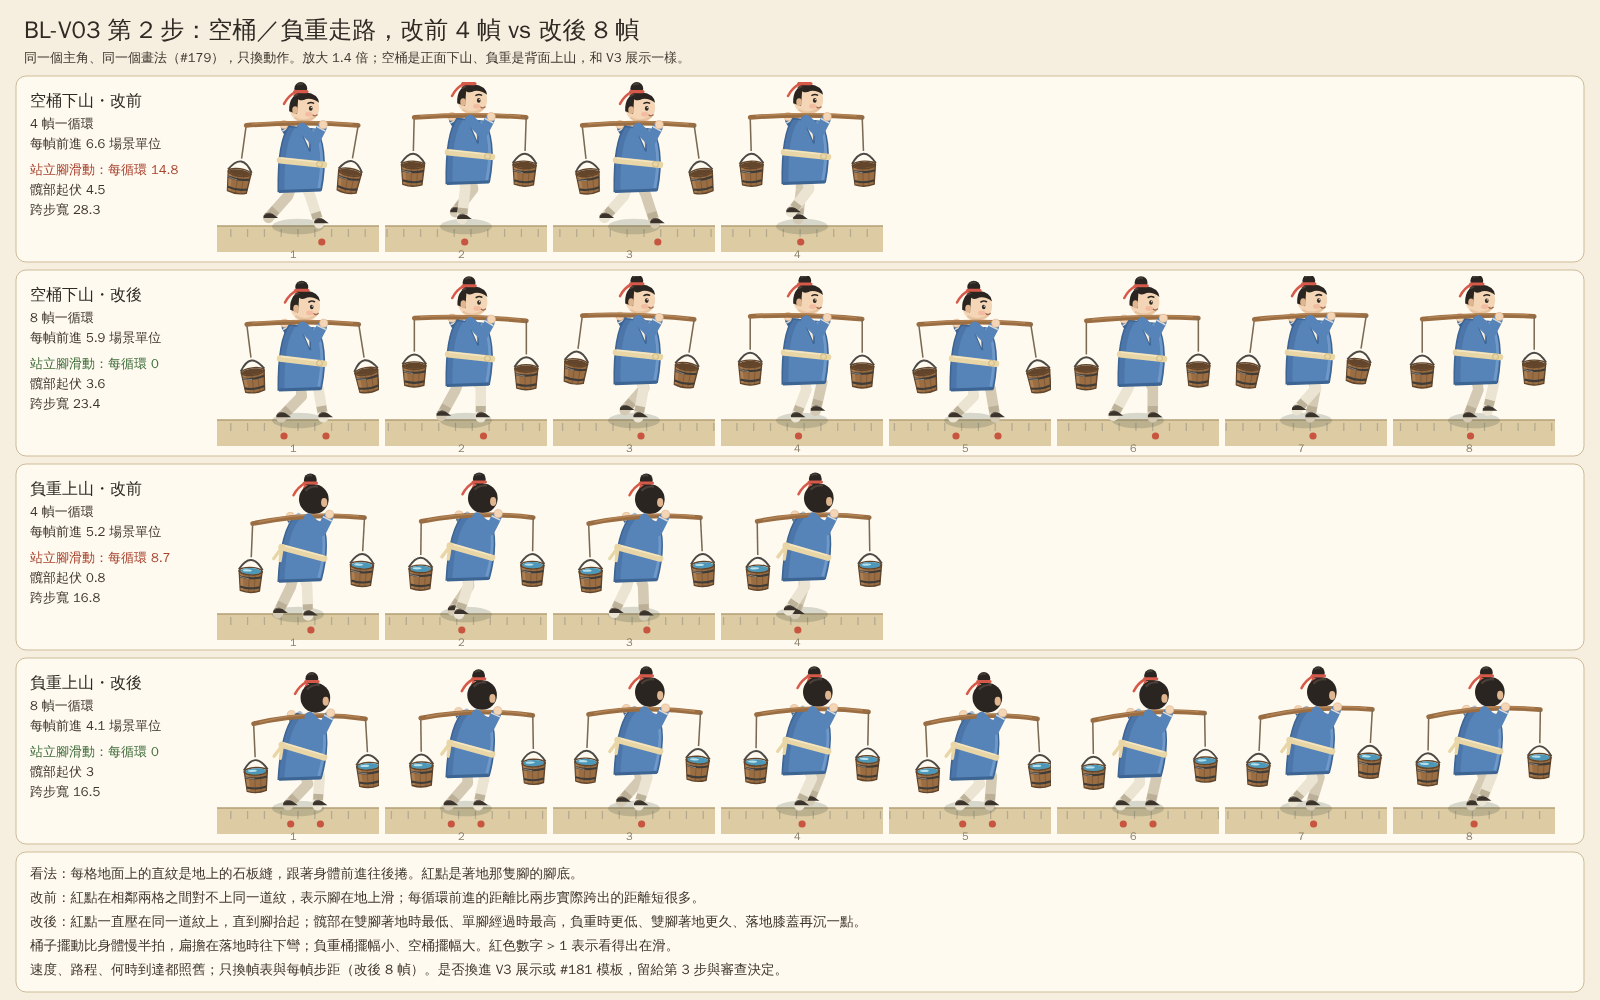
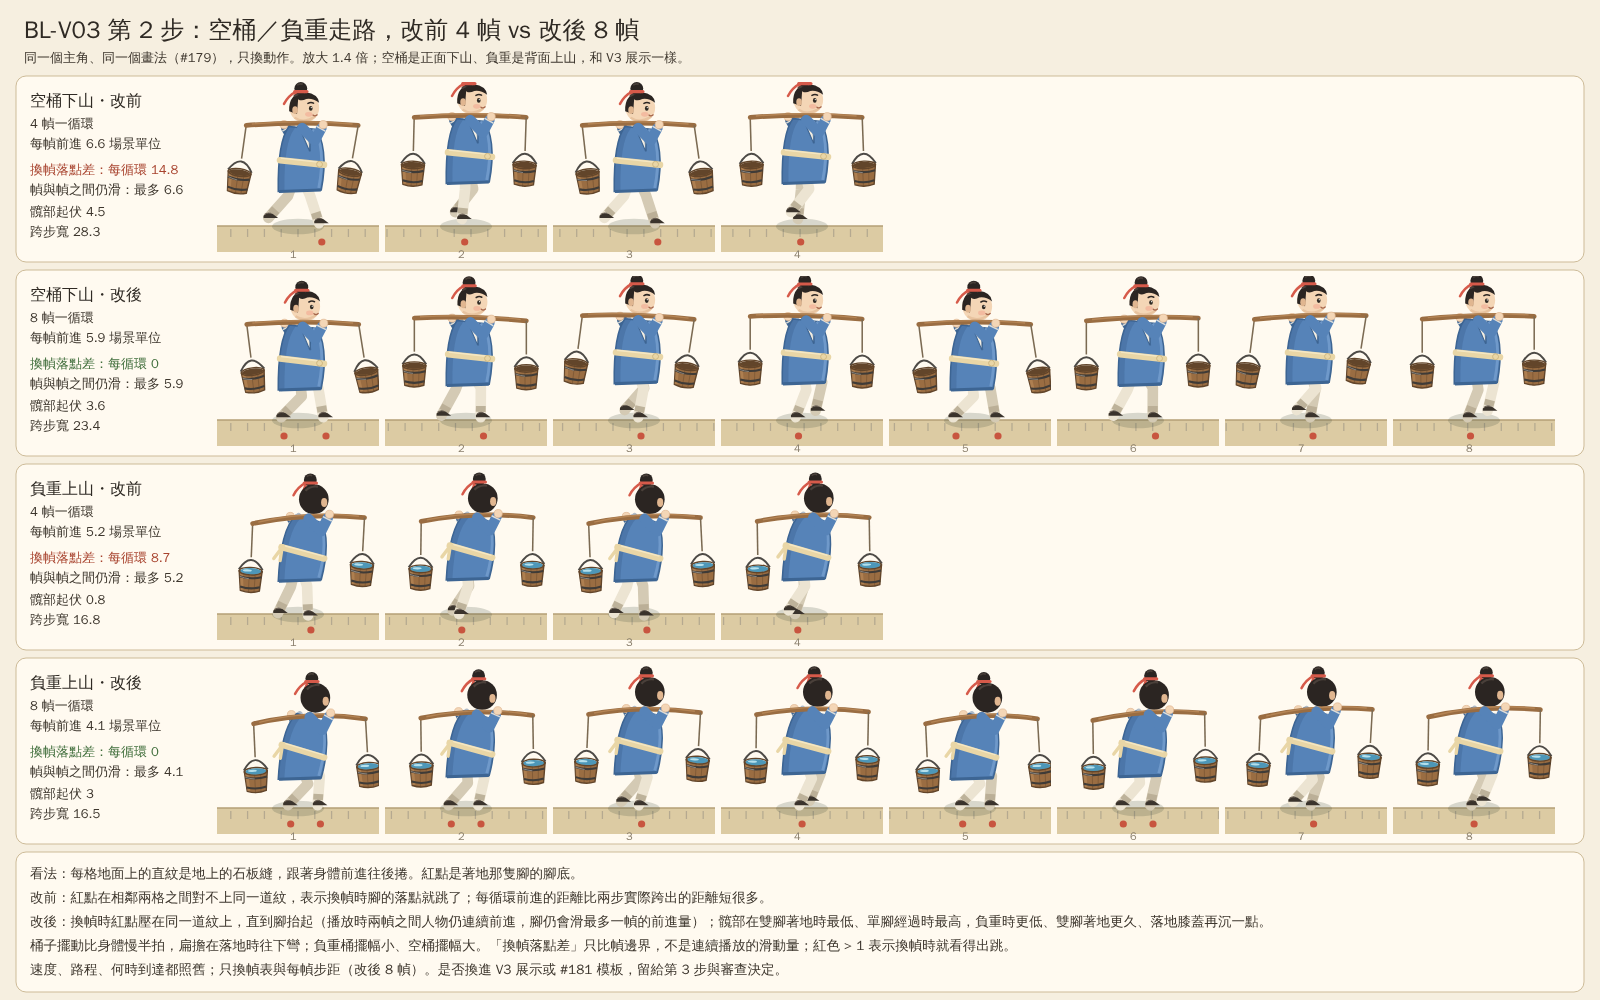
Walk comparison: say the metric is frame-boundary foot offset (Refs #177)
Review: the zero-slip number only compares foot positions at frame
changes; between frames the figure keeps moving while the legs hold,
so the foot still slides by up to one frame's travel. Rename the
metric everywhere, show the in-between slide per variant, and state
that no continuous foot lock is done.

Claude-Session: https://claude.ai/code/session_012LmwTNb7S2YSXiJSVRNLd3

diff --git a/sect-chronicle/experiments/water-carry/design/source/walk-preview.html b/sect-chronicle/experiments/water-carry/design/source/walk-preview.html
@@ -49,7 +49,7 @@
 <body>
 <main>
   <h1>挑水走路：改前 4 幀 vs 改後 8 幀</h1>
-  <p>同一個主角、同一個畫法，兩人以同樣速度走同一段路，只差腳怎麼動。看地上的石縫：改後站著的那隻腳會一直踩在同一處，改前的腳會在地上滑。</p>
+  <p>同一個主角、同一個畫法，兩人以同樣速度走同一段路，只差腳怎麼動。看地上的石縫：改後每次換幀時，站著的那隻腳會回到同一處；改前換幀時腳的落點就跳開。注意兩版在兩幀之間人物都連續前進、腿不動，所以腳仍會滑最多一幀的前進量；這裡沒有做連續鎖腳。</p>
   <div class="bar">
     <span class="lab">播放速度</span>
     <span class="seg" id="speed"><button data-v="0.25">0.25×</button><button data-v="0.5" aria-pressed="true">0.5×</button><button data-v="1">1×</button></span>
@@ -57,7 +57,7 @@
   </div>
   <section id="big"></section>
   <h2 style="font-size:16px;margin:4px 0 0">實際遊玩大小</h2>
-  <p>人物照 V3 的場景比例（0.78）、不放大。這個大小下改後的差別主要是上下起伏和桶子擺動，腳滑在改前也比較不明顯。</p>
+  <p>人物照 V3 的場景比例（0.78）、不放大。這個大小下改後的差別主要是上下起伏和桶子擺動，換幀時的落點跳動在改前也比較不明顯。</p>
   <section class="real" id="real"></section>
 </main>
 <script>
@@ -77,7 +77,7 @@ function laneSvg(v, zoomed) {
 }
 function metric(v) {
   const s = v.metrics.slipPerCycle * SCENE;
-  return `站立腳滑動 <span class="${s > 1 ? 'bad' : 'good'}">${s.toFixed(1)}</span>／循環・髖部起伏 ${(v.metrics.hipRange * SCENE).toFixed(1)}・${v.frames.length} 幀・每秒換 ${v.metrics.framesPerSec.toFixed(1)} 幀`;
+  return `換幀落點差 <span class="${s > 1 ? 'bad' : 'good'}">${s.toFixed(1)}</span>／循環・幀內仍滑最多 ${v.stride.toFixed(1)}・髖部起伏 ${(v.metrics.hipRange * SCENE).toFixed(1)}・${v.frames.length} 幀・每秒換 ${v.metrics.framesPerSec.toFixed(1)} 幀`;
 }
 function build() {
   for (const [host, zoomed] of [[document.getElementById('big'), true], [document.getElementById('real'), false]]) {

diff --git a/sect-chronicle/experiments/water-carry/design/walk/preview.html b/sect-chronicle/experiments/water-carry/design/walk/preview.html
@@ -49,7 +49,7 @@
 <body>
 <main>
   <h1>挑水走路：改前 4 幀 vs 改後 8 幀</h1>
-  <p>同一個主角、同一個畫法，兩人以同樣速度走同一段路，只差腳怎麼動。看地上的石縫：改後站著的那隻腳會一直踩在同一處，改前的腳會在地上滑。</p>
+  <p>同一個主角、同一個畫法，兩人以同樣速度走同一段路，只差腳怎麼動。看地上的石縫：改後每次換幀時，站著的那隻腳會回到同一處；改前換幀時腳的落點就跳開。注意兩版在兩幀之間人物都連續前進、腿不動，所以腳仍會滑最多一幀的前進量；這裡沒有做連續鎖腳。</p>
   <div class="bar">
     <span class="lab">播放速度</span>
     <span class="seg" id="speed"><button data-v="0.25">0.25×</button><button data-v="0.5" aria-pressed="true">0.5×</button><button data-v="1">1×</button></span>
@@ -57,7 +57,7 @@
   </div>
   <section id="big"></section>
   <h2 style="font-size:16px;margin:4px 0 0">實際遊玩大小</h2>
-  <p>人物照 V3 的場景比例（0.78）、不放大。這個大小下改後的差別主要是上下起伏和桶子擺動，腳滑在改前也比較不明顯。</p>
+  <p>人物照 V3 的場景比例（0.78）、不放大。這個大小下改後的差別主要是上下起伏和桶子擺動，換幀時的落點跳動在改前也比較不明顯。</p>
   <section class="real" id="real"></section>
 </main>
 <script>
@@ -77,7 +77,7 @@ function laneSvg(v, zoomed) {
 }
 function metric(v) {
   const s = v.metrics.slipPerCycle * SCENE;
-  return `站立腳滑動 <span class="${s > 1 ? 'bad' : 'good'}">${s.toFixed(1)}</span>／循環・髖部起伏 ${(v.metrics.hipRange * SCENE).toFixed(1)}・${v.frames.length} 幀・每秒換 ${v.metrics.framesPerSec.toFixed(1)} 幀`;
+  return `換幀落點差 <span class="${s > 1 ? 'bad' : 'good'}">${s.toFixed(1)}</span>／循環・幀內仍滑最多 ${v.stride.toFixed(1)}・髖部起伏 ${(v.metrics.hipRange * SCENE).toFixed(1)}・${v.frames.length} 幀・每秒換 ${v.metrics.framesPerSec.toFixed(1)} 幀`;
 }
 function build() {
   for (const [host, zoomed] of [[document.getElementById('big'), true], [document.getElementById('real'), false]]) {

diff --git a/sect-chronicle/experiments/water-carry/design/render-walk.js b/sect-chronicle/experiments/water-carry/design/render-walk.js
@@ -51,7 +51,7 @@ const GIF_FPS = 15, GIF_SECONDS = 4, GIF_SPEED = 0.5;
   const data = await page.evaluate(() => window.WALK.export());
   for (const [id, v] of Object.entries(data)) {
     const m = v.metrics;
-    console.log(`${id}: ${v.frames.length} 幀, 每幀 ${m.cycle / v.frames.length} 場景單位, 滑動/循環 ${(m.slipPerCycle * 0.78).toFixed(2)}, 髖起伏 ${(m.hipRange * 0.78).toFixed(2)}, 每秒 ${m.framesPerSec.toFixed(1)} 幀`);
+    console.log(`${id}: ${v.frames.length} 幀, 每幀 ${m.cycle / v.frames.length} 場景單位, 換幀落點差/循環 ${(m.slipPerCycle * 0.78).toFixed(2)}, 髖起伏 ${(m.hipRange * 0.78).toFixed(2)}, 每秒 ${m.framesPerSec.toFixed(1)} 幀`);
   }
   await page.close();
   const tplHtml = fs.readFileSync(path.join(__dirname, 'source', 'walk-preview.html'), 'utf8');

diff --git a/sect-chronicle/experiments/water-carry/design/BL-V03-WALK.md b/sect-chronicle/experiments/water-carry/design/BL-V03-WALK.md
@@ -14,12 +14,14 @@
 
 改前是 V1 姿勢表的 `emptyA–D`、`loadA–D`，V3 展示和 [#181 模板](../template/actions.json)現在都用這組。兩個問題：
 
-- **腳在地上滑**：兩步實際跨出的距離（空桶約 28 場景單位）比每循環前進的距離（4 幀 × 6.6 = 26.4，兩步）大很多，著地那隻腳每循環滑約 15（空桶）、9（負重）。
+- **換幀時腳的落點跳開**：兩步實際跨出的距離（空桶約 28 場景單位）比每循環前進的距離（4 幀 × 6.6 = 26.4，兩步）大很多。量相鄰兩幀都著地的那隻腳，換幀那一刻的落點差加總，每循環約 15（空桶）、9（負重）。
 - **負重看不出重**：負重循環的髖部起伏只有 0.8，比空桶（4.5）還平；步幅、雙腳著地時間和空桶差不多。
 
 ## 改後怎麼做
 
-腳的位置先定在地面，再用大腿、小腿各 21 的兩段腿反推膝蓋角度（`walk-boards.js` 的 `ik()`）。站著的那隻腳跟著地面一起往後退，所以不滑。
+腳的位置先定在地面，再用大腿、小腿各 21 的兩段腿反推膝蓋角度（`walk-boards.js` 的 `ik()`）。站著的那隻腳每換一幀就往後退一幀的前進量，所以換幀時落點對齊。
+
+**限制**：這是離散幀邊界的量測，不是連續播放的滑動量。預覽與 #181 模板都是人物位置連續前進、腿維持目前這一幀，所以兩幀之間腳仍會滑，最多一幀的前進量（改後 5.85／4.14，改前 6.6／5.2），換幀時再對回。這裡沒有做連續鎖腳；若要做，要另外處理幀內位置（例如按幀量化位移或更多幀），屬第 3 步範圍。
 
 | | 空桶下山 | 負重上山 |
 |---|---|---|
@@ -31,7 +33,8 @@
 | 髖部起伏 | 3.6（原 4.5） | 3.0（原 0.8） |
 | 桶子擺動 | 大、比身體慢半拍 | 小、比身體慢半拍 |
 | 扁擔 | 幾乎不彎 | 落地時往下彎、左右肩換邊時傾斜 |
-| 著地腳滑動／循環 | 0（原 14.8） | 0（原 8.7） |
+| 換幀時著地腳落點差／循環 | 0（原 14.8） | 0（原 8.7） |
+| 兩幀之間仍滑（最多，一幀的前進量） | 5.85（原 6.6） | 4.14（原 5.2） |
 
 數字都是 `render-walk.js` 跑完印出的量測。
 
@@ -50,7 +53,7 @@
 ## 請擁有人／遊戲 PO 看
 
 1. 改後的走法對嗎？負重要更沉（步更小、身體更低），還是現在剛好？
-2. 1× 實際大小下，差別主要是上下起伏和桶子擺動，腳滑比較不明顯。值得換進展示嗎？
+2. 1× 實際大小下，差別主要是上下起伏和桶子擺動，換幀時的落點跳動比較不明顯。值得換進展示嗎？
 3. 下一步要先做取水／倒水的連續動作，還是先把這兩個循環換進 #181 模板與 V3 展示？
 
 ## 重產
